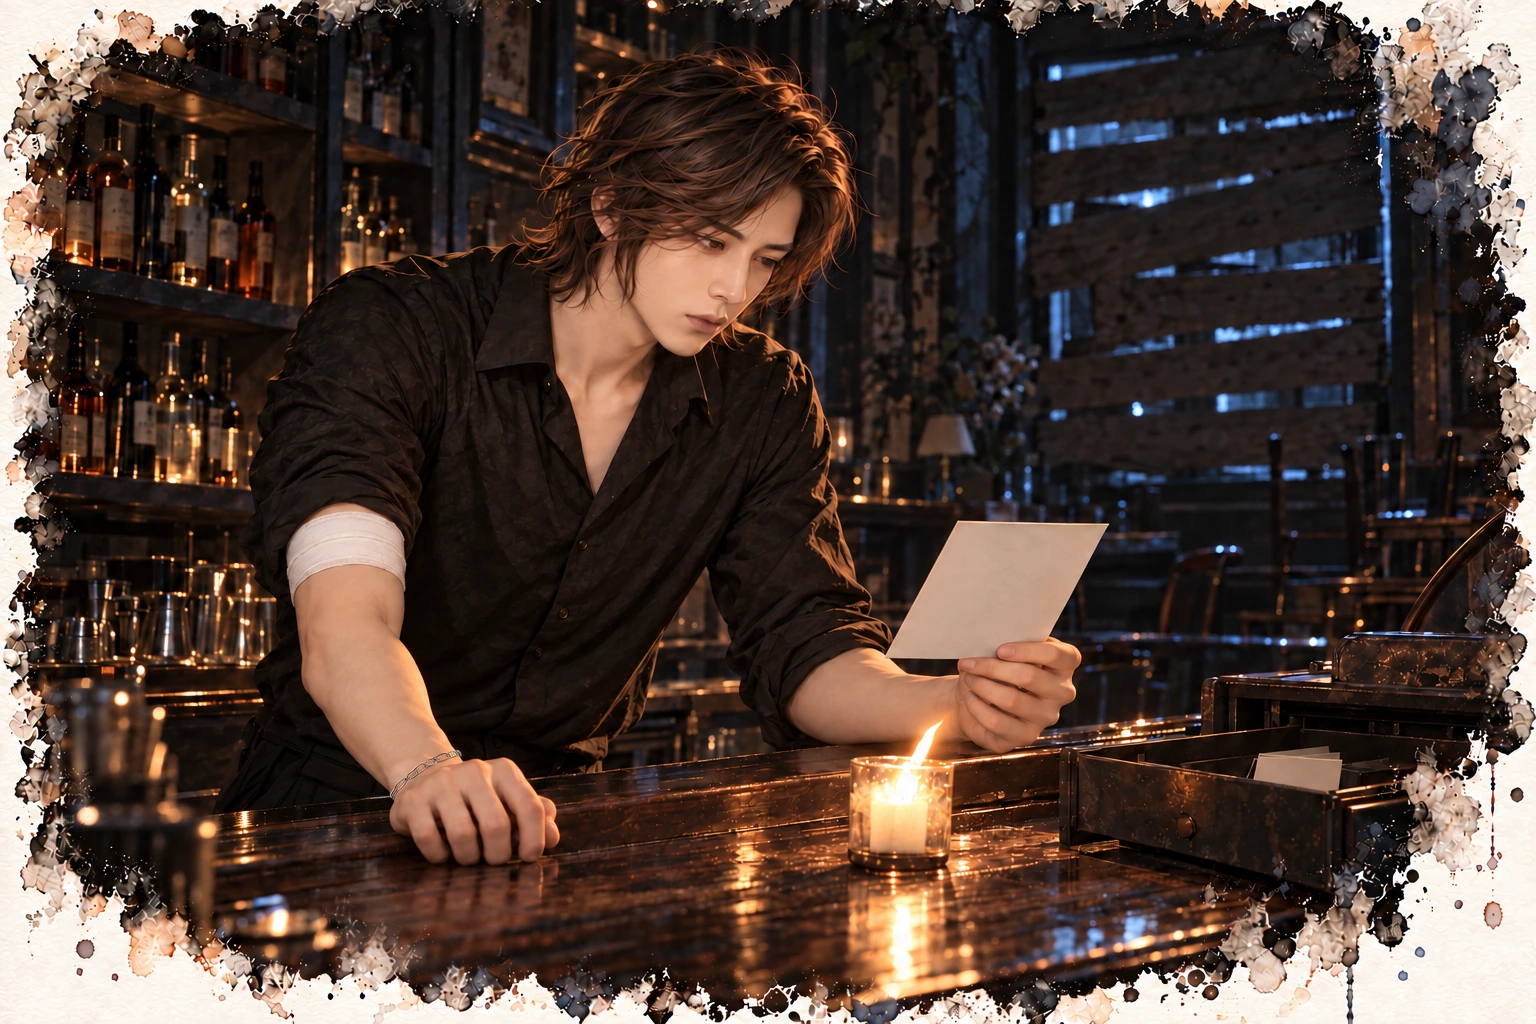
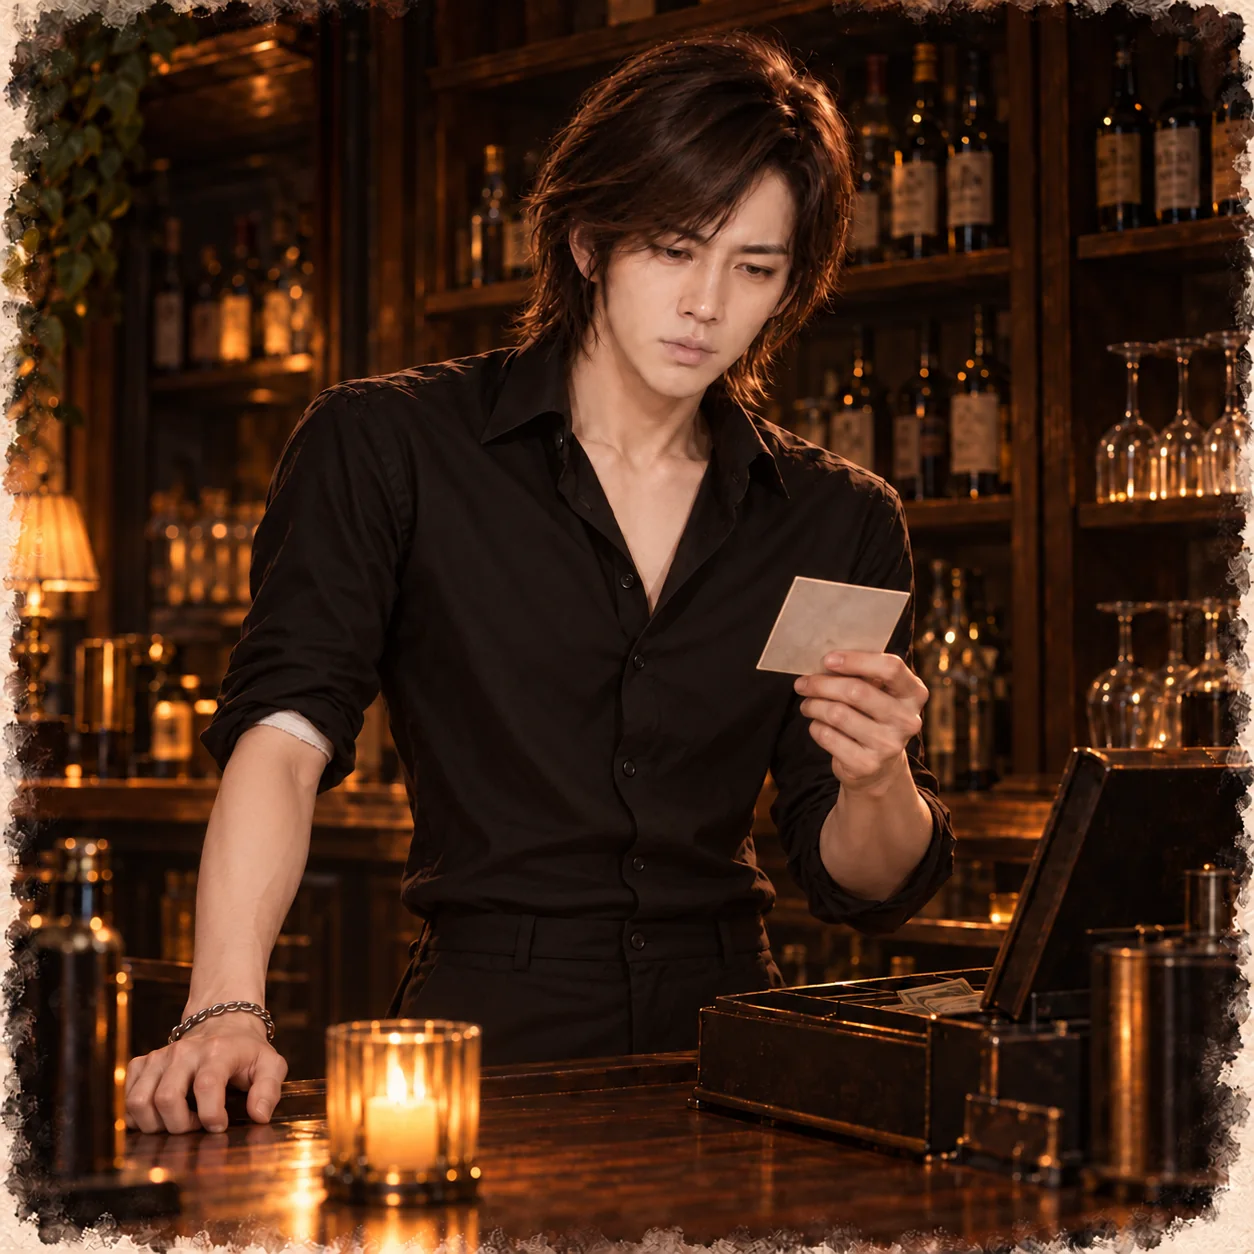
沒有招牌的酒吧 第一部第五章：替換江澈插圖
Claude-Session: https://claude.ai/code/session_01HUwf2ENyDuzceKaKYawxmj

diff --git a/novels/no-signboard-bar/chapter-05.html b/novels/no-signboard-bar/chapter-05.html
@@ -273,7 +273,7 @@
 <p>而她，是一個兩天前才差點死掉的人。</p>
 </section>
 <section class="pov pov-jiang" data-name="江澈">
-<div class="pov-opening"><h2 class="pov-title" id="pov-4"><span>敘事視角</span>江澈</h2><a class="pov-art" href="../../assets/novels/no-signboard-bar/chapter-05-jiang-che.webp" target="_blank" rel="noopener" aria-label="開啟江澈插圖大圖"><img src="../../assets/novels/no-signboard-bar/chapter-05-jiang-che.webp" alt="江澈獨自在酒吧裡查看照片，右上臂包著紗布。" width="1536" height="1024" loading="lazy" decoding="async"><span class="pov-cap">他剛剛才說了同意。</span></a><div class="pov-intro"><p>窗戶用木板釘起來了，風從縫裡鑽進來，吧檯上的燭火一直往一邊歪。</p>
+<div class="pov-opening"><h2 class="pov-title" id="pov-4"><span>敘事視角</span>江澈</h2><a class="pov-art" href="../../assets/novels/no-signboard-bar/chapter-05-jiang-che.webp?v=20261013" target="_blank" rel="noopener" aria-label="開啟江澈插圖大圖"><img src="../../assets/novels/no-signboard-bar/chapter-05-jiang-che.webp?v=20261013" alt="打烊後的吧檯，燭火搖晃，江澈右臂包著紗布，打開收銀機，低頭看著從最底下那一格翻出來的照片。" width="1254" height="1254" loading="lazy" decoding="async"><span class="pov-cap">他剛剛才說了同意。</span></a><div class="pov-intro"><p>窗戶用木板釘起來了，風從縫裡鑽進來，吧檯上的燭火一直往一邊歪。</p>
 <p>手臂縫了十一針，醫生叫我至少休息兩週，別用右手。今天我用右手擦了三十幾個杯子。醫生的話，我向來只聽一半，另一半拿去擦杯子。</p>
 <p>站久了眼前會黑，比以前更常。那天流了那麼多血，數字大概又掉了。</p></div></div>
 <p>我伸手到外套口袋找打火機，摸到一小塊摺起來的紙。是那包餅乾的包裝，皺巴巴的，摺得很小。那天早上掃完玻璃隨手塞進去，就忘了。</p>
